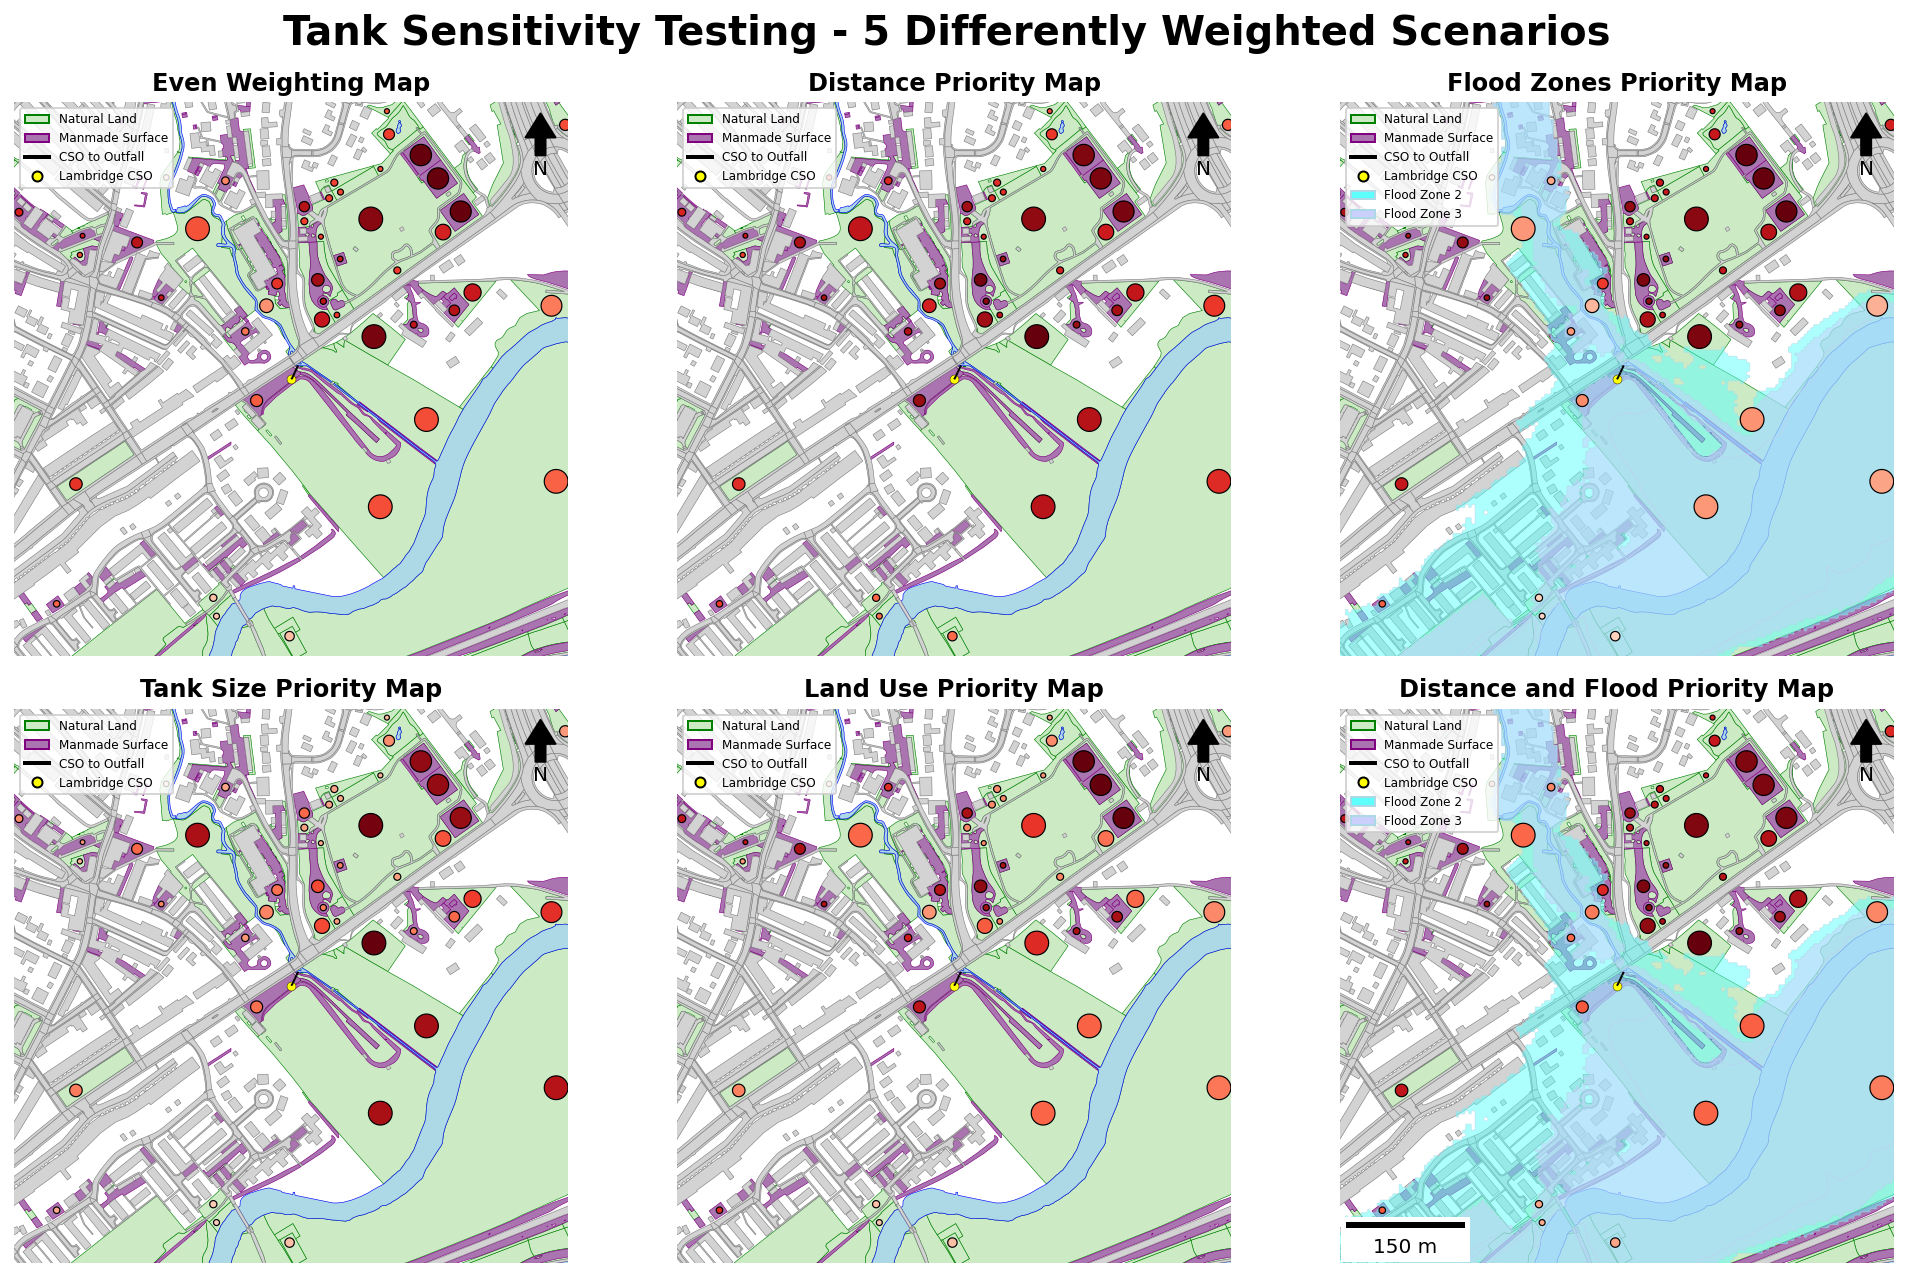
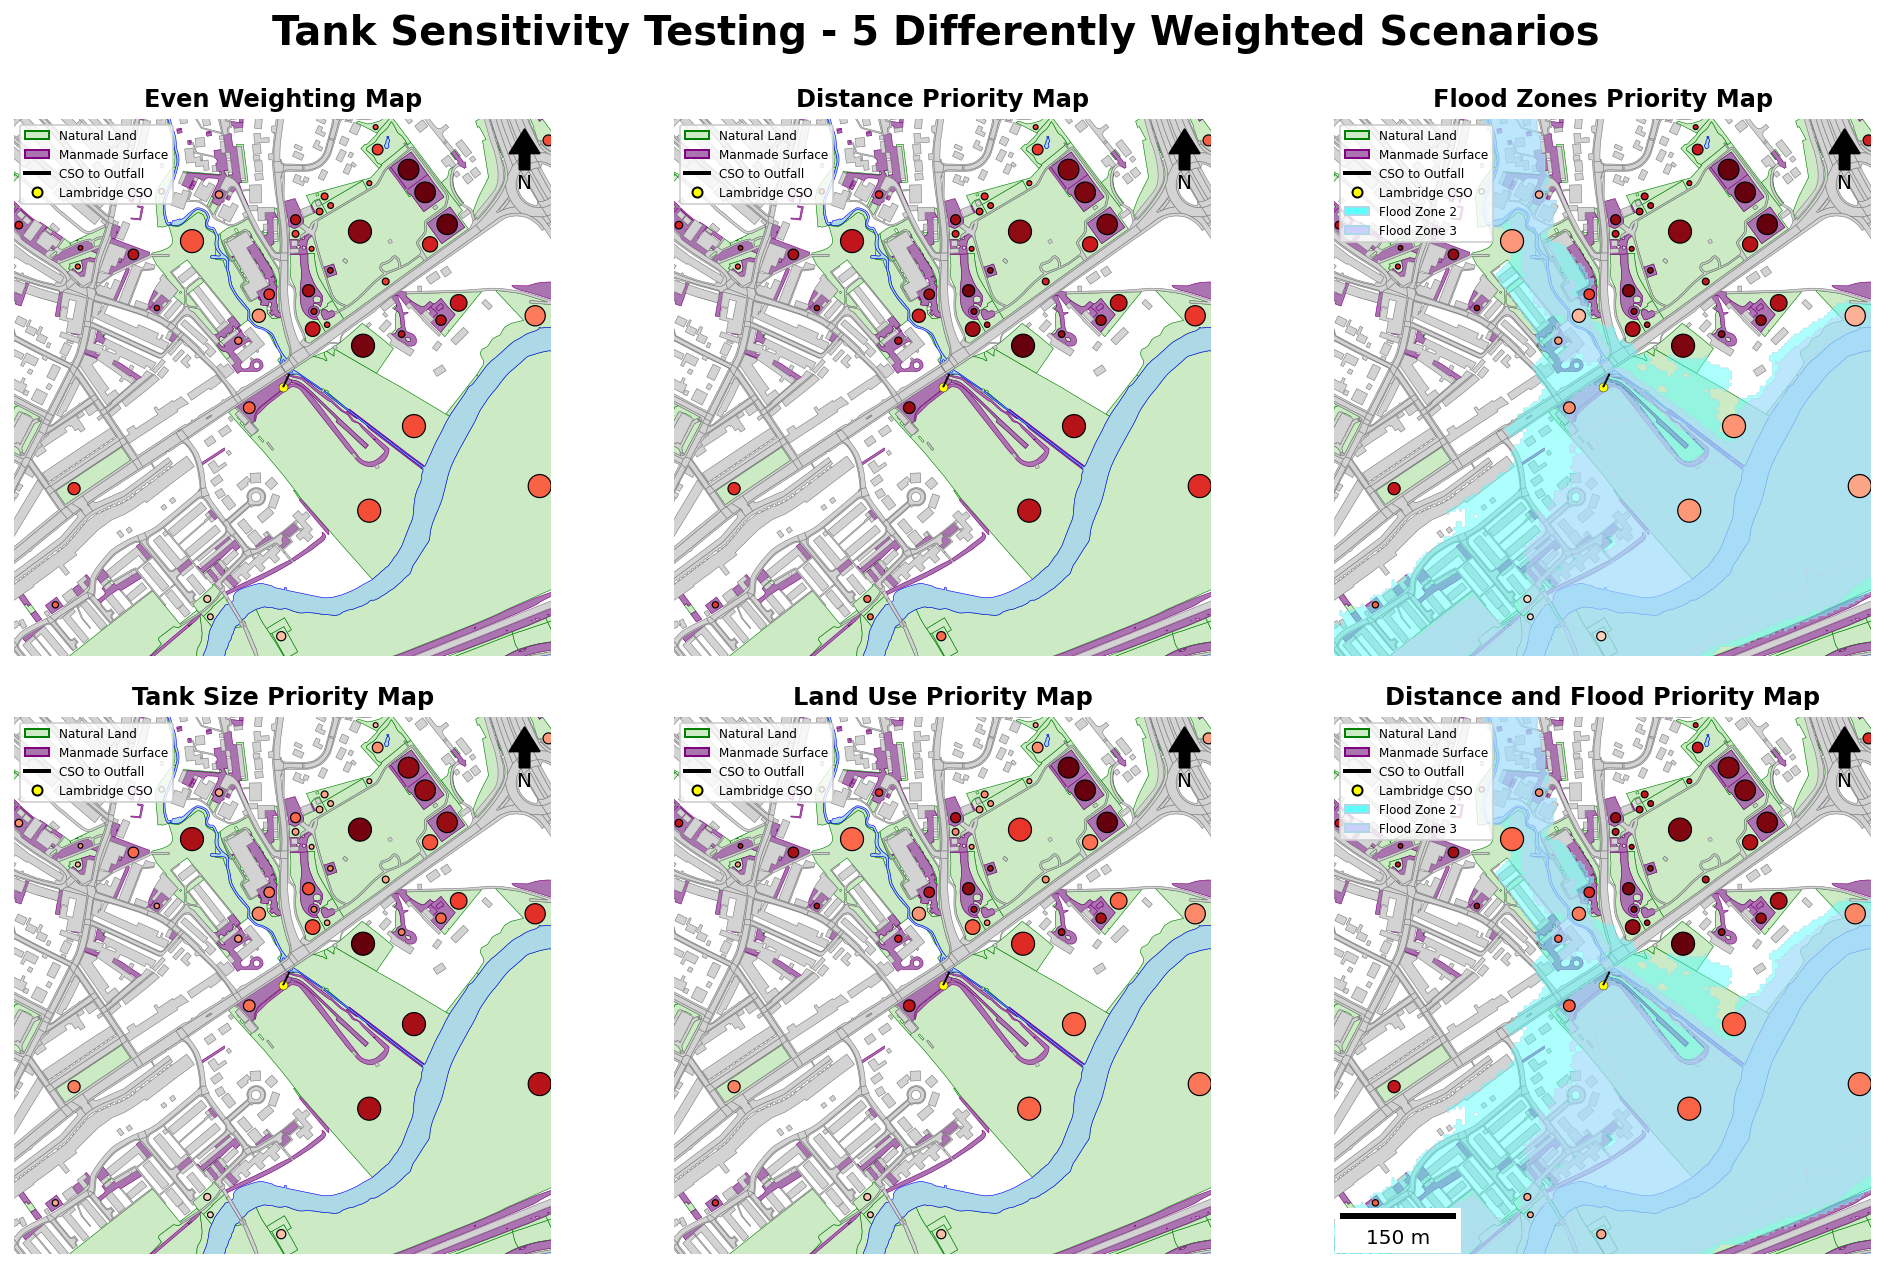
padded space between - idk if i should fo wpad or not because there a big gap already

diff --git a/dissertation-code.py b/dissertation-code.py
@@ -655,7 +655,7 @@ for idx, (ax, (scenario_name, weights)) in enumerate(zip(axes, scenarios.items()
             ],loc='upper left', fontsize=6)
 
 #tight layout so theres no gaps
-fig.tight_layout()
+fig.tight_layout(pad=1.5)
 
 # add scalebar - for all 
 ax.add_artist(ScaleBar(dx=1, units="m", location="lower left", length_fraction=0.25))
